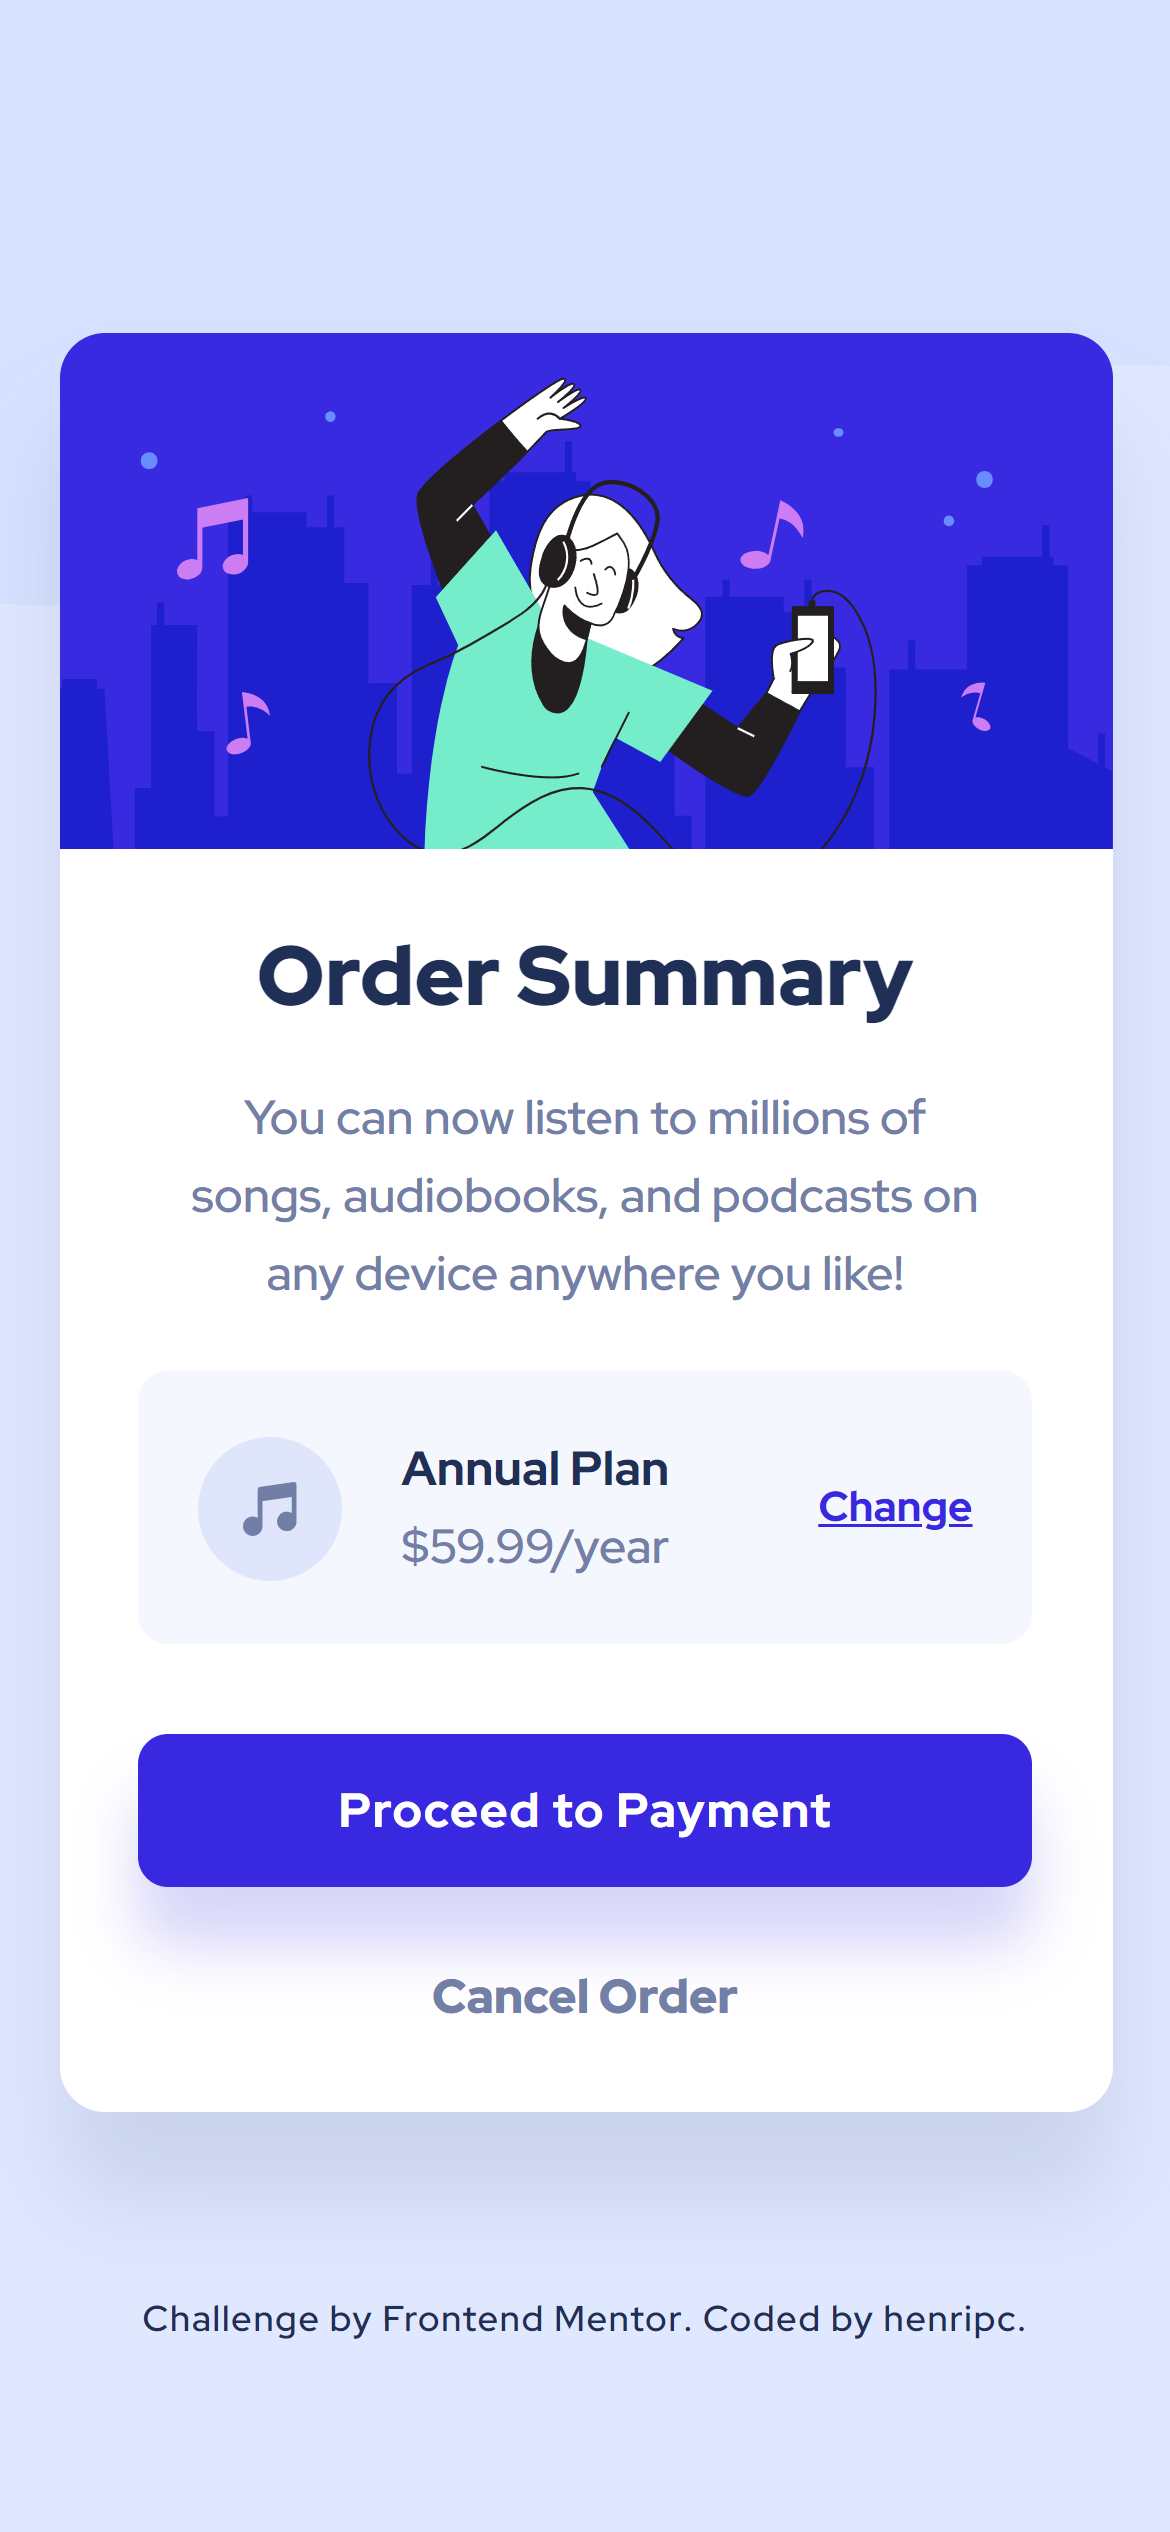
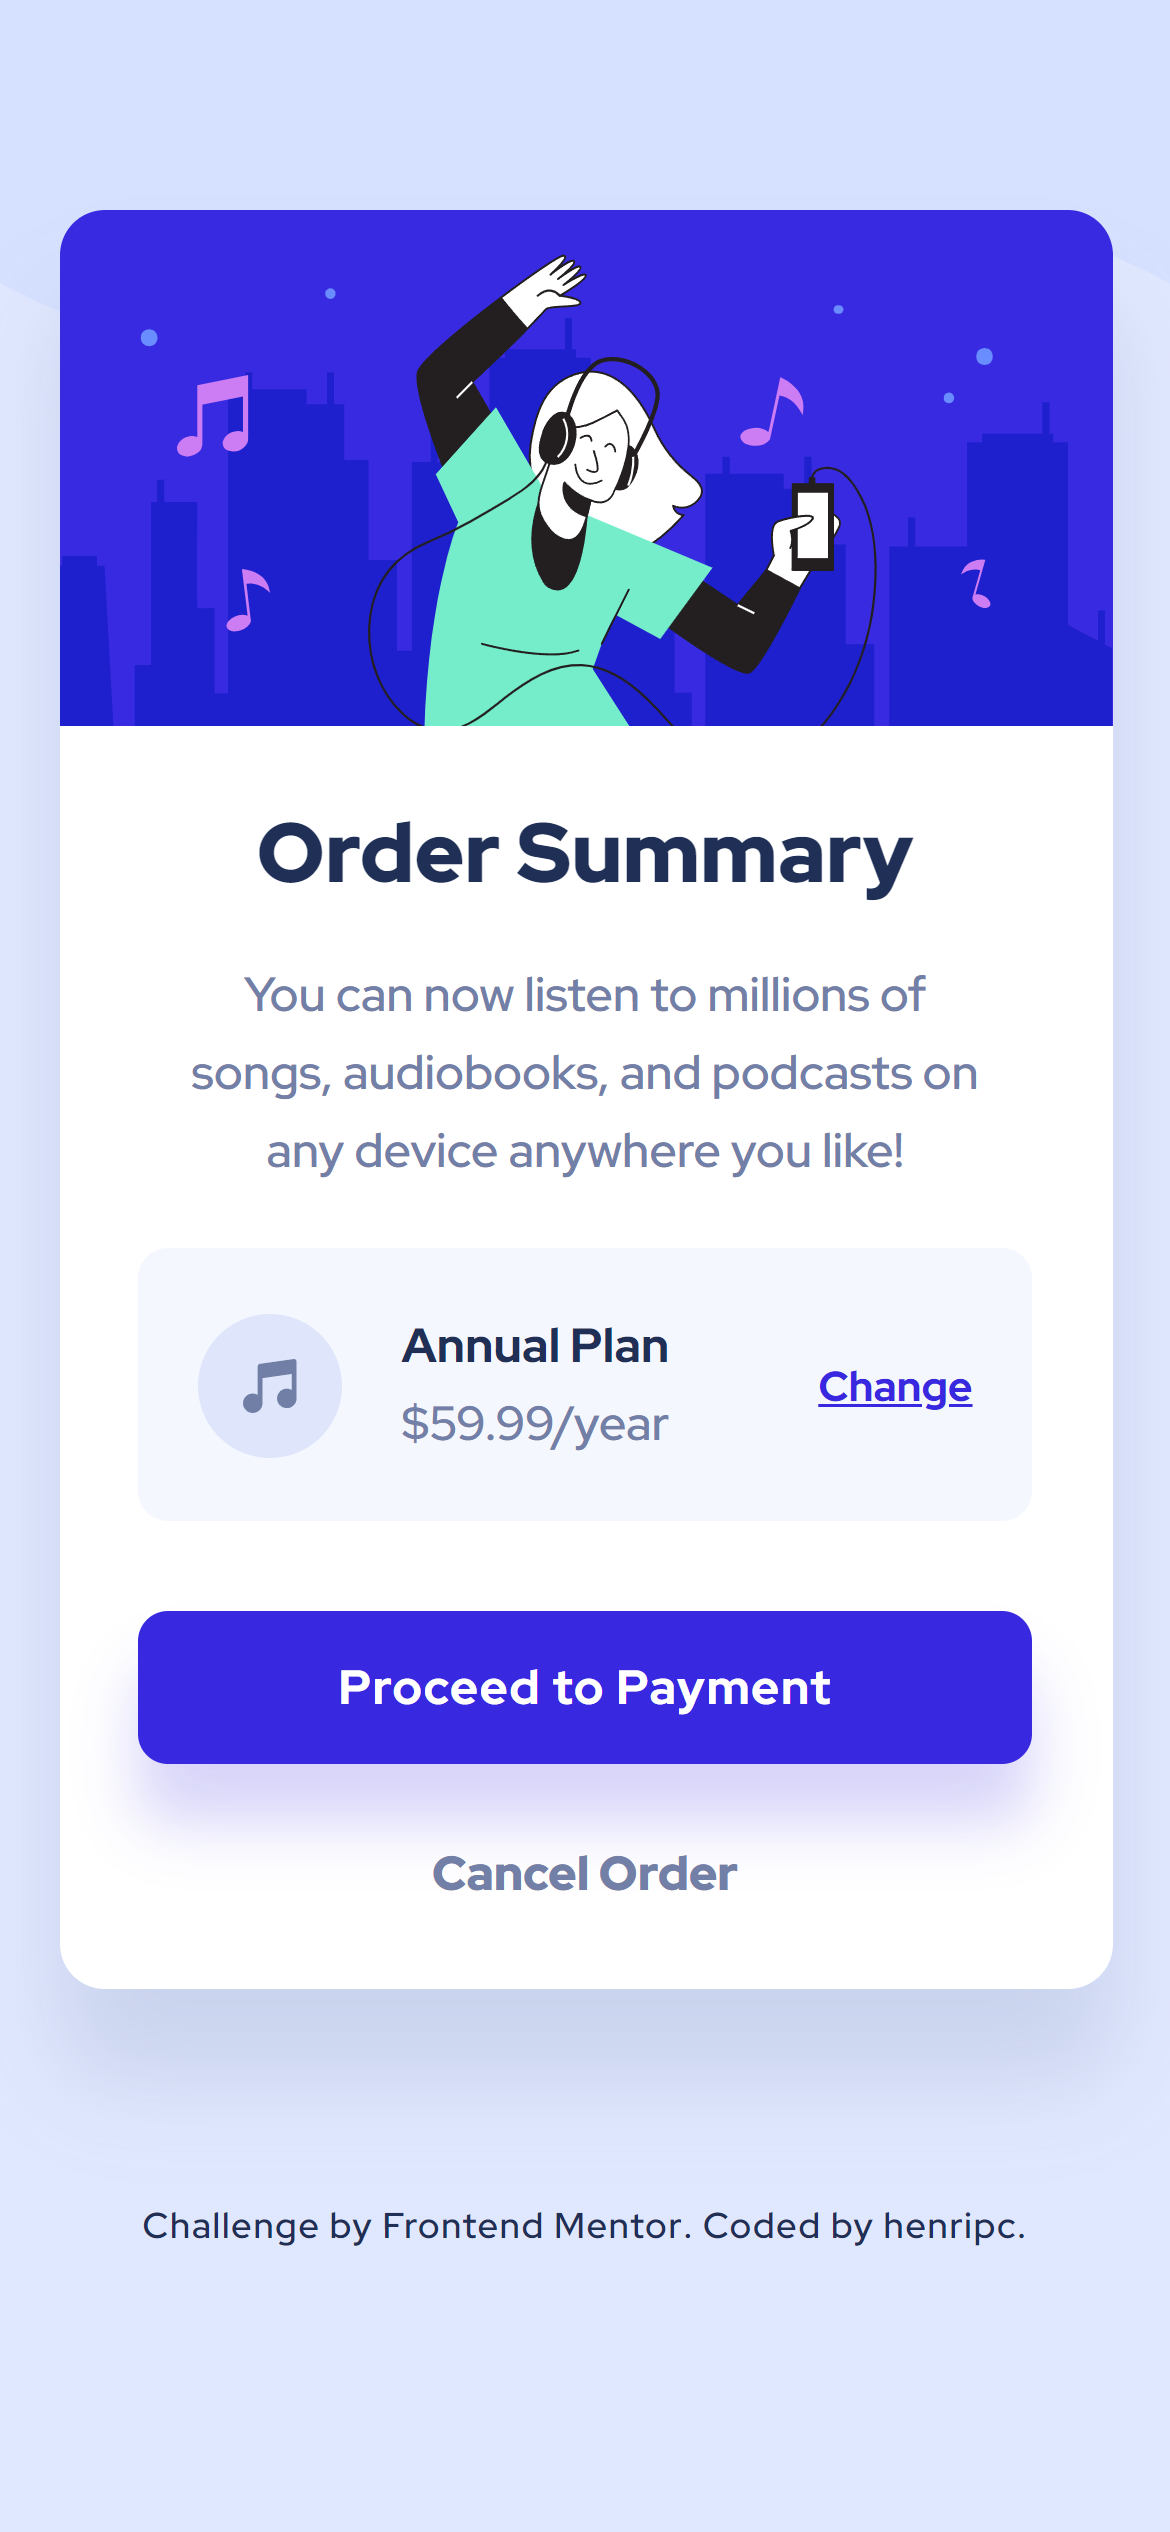
fixed mobile layout for order summary component

diff --git a/order-summary-component/index.html b/order-summary-component/index.html
@@ -24,54 +24,52 @@
     <title>Frontend Mentor | Order summary card</title>
   </head>
   <body>
-    <main class="container">
-      <div class="card">
-        <img
-          src="./img/illustration-hero.svg"
-          alt="Card backgound image"
-          class="card__img"
-        />
+    <main class="card">
+      <img
+        src="./img/illustration-hero.svg"
+        alt="Card backgound image"
+        class="card__img"
+      />
 
-        <div class="card__details">
-          <h1 class="name">Order Summary</h1>
+      <div class="card__details">
+        <h1 class="name">Order Summary</h1>
 
-          <p class="description">
-            You can now listen to millions of songs, audiobooks, and podcasts on
-            any device anywhere you like!
-          </p>
-
-          <div class="plan">
-            <img src="./img/icon-music.svg" alt="Music icon" />
-            <div class="plan--price">
-              <h2 class="heading-2">Annual Plan</h2>
-              <p class="price-tag">$59.99/year</p>
-            </div>
-            <a href="#" class="change">Change</a>
-          </div>
-
-          <button class="card__details-button">Proceed to Payment</button>
-
-          <a href="#" class="cancel-button">Cancel Order</a>
-        </div>
-      </div>
-
-      <div class="attribution">
-        <p class="attribution-paragraph">
-          Challenge by
-          <a
-            class="attribution__challenge-link"
-            href="https://www.frontendmentor.io/challenges/order-summary-component-QlPmajDUj"
-            target="_blank"
-            >Frontend Mentor</a
-          >. Coded by
-          <a
-            class="attribution__coder-link"
-            href="https://github.com/henripc"
-            target="_blank"
-            >henripc</a
-          >.
+        <p class="description">
+          You can now listen to millions of songs, audiobooks, and podcasts on
+          any device anywhere you like!
         </p>
+
+        <div class="plan">
+          <img src="./img/icon-music.svg" alt="Music icon" />
+          <div class="plan--price">
+            <h2 class="heading-2">Annual Plan</h2>
+            <p class="price-tag">$59.99/year</p>
+          </div>
+          <a href="#" class="change">Change</a>
+        </div>
+
+        <button class="card__details-button">Proceed to Payment</button>
+
+        <a href="#" class="cancel-button">Cancel Order</a>
       </div>
     </main>
+
+    <footer class="attribution">
+      <p class="attribution-paragraph">
+        Challenge by
+        <a
+          class="attribution__challenge-link"
+          href="https://www.frontendmentor.io/challenges/order-summary-component-QlPmajDUj"
+          target="_blank"
+          >Frontend Mentor</a
+        >. Coded by
+        <a
+          class="attribution__coder-link"
+          href="https://github.com/henripc"
+          target="_blank"
+          >henripc</a
+        >.
+      </p>
+    </footer>
   </body>
 </html>

diff --git a/order-summary-component/style.css b/order-summary-component/style.css
@@ -14,32 +14,18 @@ body {
   font-family: "Red Hat Display", sans-serif;
   font-weight: 500;
   line-height: 1.6;
-  display: flex;
-  flex-direction: column;
-  align-items: center;
-  justify-content: center; }
-
-.container {
-  width: 100%;
-  height: 100vh;
   background-color: #e0e8ff;
   background-image: url(./img/pattern-background-desktop.svg);
   background-size: 100%;
   background-repeat: no-repeat;
   display: flex;
   flex-direction: column;
-  gap: 5rem;
   align-items: center;
   justify-content: center; }
-  @media only screen and (max-width: 50em) {
-    .container {
-      background-image: url(./img/pattern-background-mobile.svg);
-      background-size: 100%;
-      background-repeat: no-repeat; } }
 
 .card {
   width: 45rem;
-  margin-top: 5rem;
+  margin-top: 7rem;
   background-color: #fff;
   border-radius: 15px;
   overflow: hidden;
@@ -144,7 +130,7 @@ body {
   z-index: 10;
   display: flex;
   justify-content: center;
-  margin-top: 1rem; }
+  margin-top: 7rem; }
   .attribution-paragraph {
     font-size: 1.2rem;
     color: #1f2f56;

diff --git a/order-summary-component/main.scss b/order-summary-component/main.scss
@@ -32,16 +32,6 @@ body {
   font-family: "Red Hat Display", sans-serif;
   font-weight: 500;
   line-height: 1.6;
-
-  display: flex;
-  flex-direction: column;
-  align-items: center;
-  justify-content: center;
-}
-
-.container {
-  width: 100%;
-  height: 100vh;
   background-color: $color-primary-pale;
   background-image: url(./img/pattern-background-desktop.svg);
   background-size: 100%;
@@ -49,20 +39,13 @@ body {
 
   display: flex;
   flex-direction: column;
-  gap: 5rem;
   align-items: center;
   justify-content: center;
-
-  @media only screen and (max-width: $bp-medium-1) {
-    background-image: url(./img/pattern-background-mobile.svg);
-    background-size: 100%;
-    background-repeat: no-repeat;
-  }
 }
 
 .card {
   width: 45rem;
-  margin-top: 5rem;
+  margin-top: 7rem;
   background-color: #fff;
   border-radius: 15px;
   overflow: hidden;
@@ -205,7 +188,7 @@ body {
   z-index: 10;
   display: flex;
   justify-content: center;
-  margin-top: 1rem;
+  margin-top: 7rem;
 
   &-paragraph {
     font-size: 1.2rem;
